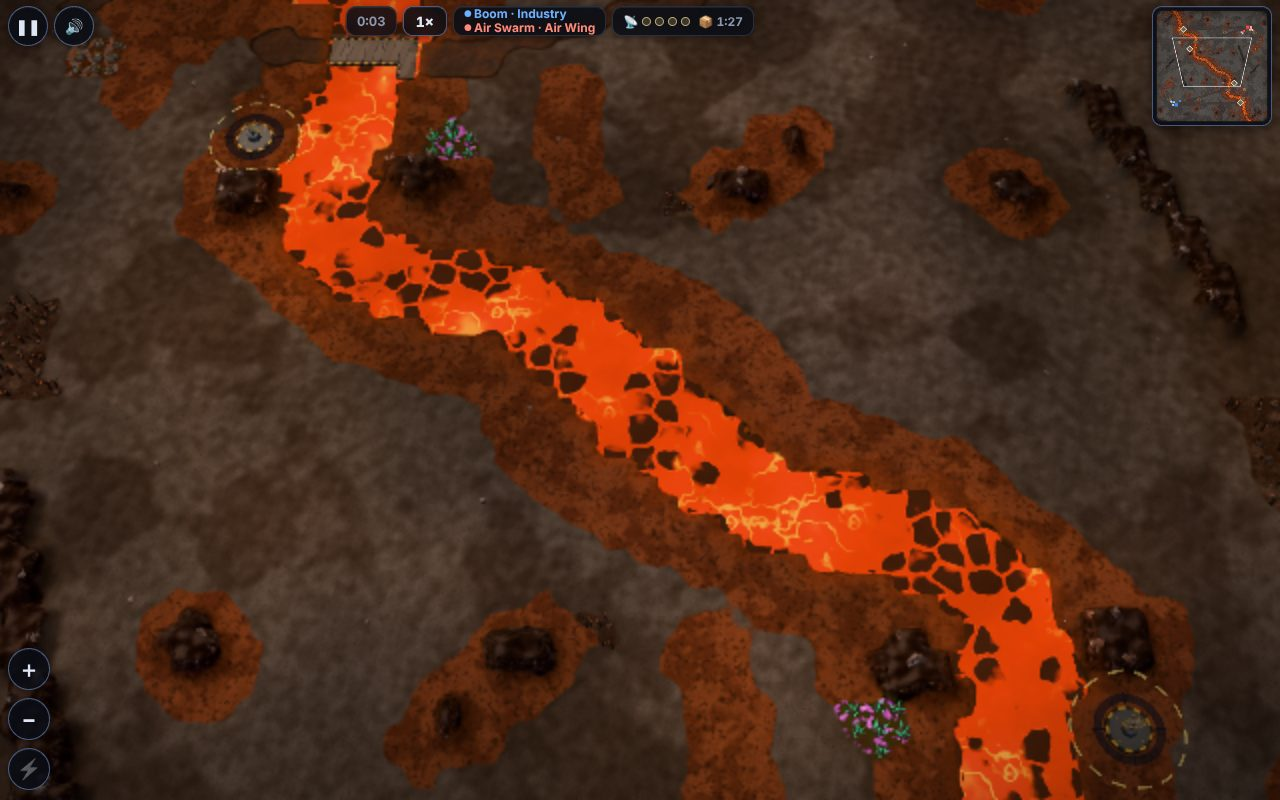
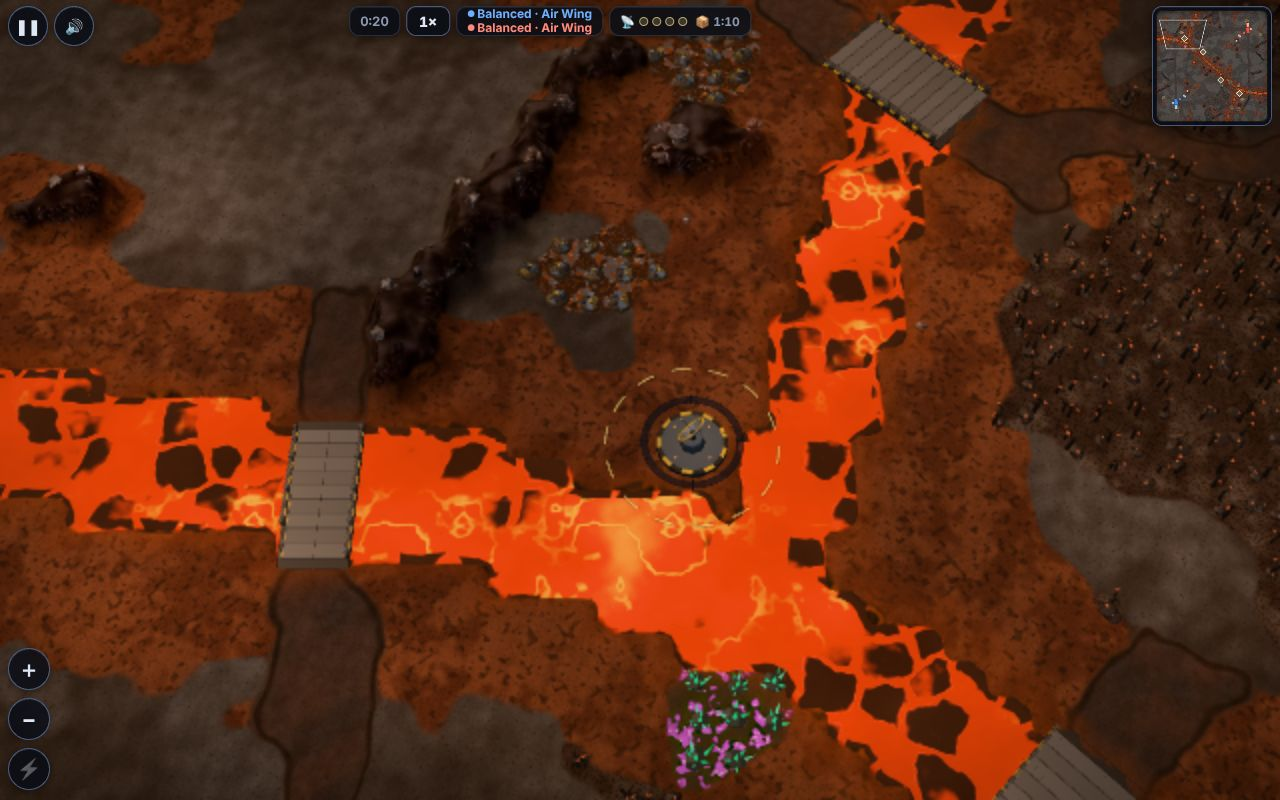
Uncharted hides unscouted Uplinks; preview fixes; PR screenshots
- render/objectives: Uplinks on unscouted ground stay hidden (3D + minimap)
  in an Uncharted match; the first Uplink tip says to scout instead
- map preview: reopening closes the old overlay (no leaked Esc listener);
  Play from the preview saves the pick so Rematch replays it
- progress-shots/random-maps: menu, preview, uncharted, all five biomes,
  contact sheet

Claude-Session: https://claude.ai/code/session_01CfwMwDaK1kLKnRV6di8VMT

diff --git a/src/game/render/objectives.ts b/src/game/render/objectives.ts
@@ -420,6 +420,10 @@ export class ObjectiveRenderer {
     const col = owner ? TEAM[owner] : NEUTRAL;
     // an island relay with no troops on it is held but silent: dimmed, its dish barely turning
     // (the enemy's only while we can see it)
+    // Uncharted: an Uplink nobody has scouted isn't on the map yet (tower, glow and rings would show through the shroud)
+    const charted = !this.opts.charted || this.opts.charted(x, y);
+    v.m.root.visible = v.glow.visible = charted;
+    if (!charted) return;
     const seen = this.opts.visibleAt(l.x, l.y);
     const idle = !!(l.infantryOnly && owner && !l.crewed) && (this.opts.spectator || owner === this.opts.player || seen);
     this.watchCrew(v);
@@ -625,6 +629,9 @@ export class ObjectiveRenderer {
     const near = [...this.uplinks].sort(
       (a, b) => Math.hypot(a.l.x - home.x, a.l.y - home.y) - Math.hypot(b.l.x - home.x, b.l.y - home.y)
     )[0]!;
+    // (Uncharted: no pointing at one nobody has scouted)
+    if (this.opts.charted && !this.opts.charted(near.l.x, near.l.y))
+      return this.opts.hint("Park units on a 📡 Uplink to take it: scrap, vision, ⚡ charge. Scout to find them.");
     this.opts.hint("Park units on a 📡 Uplink to take it: scrap, vision, ⚡ charge. Tap to look.", near.l.x, near.l.y);
   }
 
